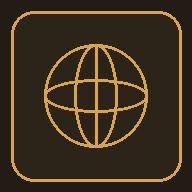
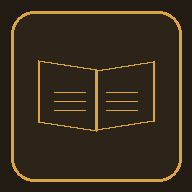
Add files via upload

Changed region(s): [[0.1875, 0.2188, 0.8125, 0.7812]]

diff --git a/index.html b/index.html
@@ -21,6 +21,7 @@
     --gold:#d9a441; --gold-dim:#a9803a;
     --nom:#c1453d; --gen:#d9a441; --dat:#5e8c6a; --acc:#4c7bb0; --abl:#a06fa3;
     --good:#5e8c6a; --bad:#c1453d; --radius:6px;
+    --lang-la:#c1453d; --lang-de:#4a7856; --lang-fr:#4c6fa5; --lang-el:#3f8f8a;
   }
   *{box-sizing:border-box;}
   html{scroll-behavior:smooth;}
@@ -43,6 +44,14 @@
   }
   nav.pillnav button:hover{border-color:var(--gold-dim);color:var(--ink);}
   nav.pillnav button.active{background:var(--gold);color:#221c15;border-color:var(--gold);}
+  #lang-nav button[data-id="la"].active{background:var(--lang-la);border-color:var(--lang-la);color:#fff;}
+  #lang-nav button[data-id="de"].active{background:var(--lang-de);border-color:var(--lang-de);color:#fff;}
+  #lang-nav button[data-id="fr"].active{background:var(--lang-fr);border-color:var(--lang-fr);color:#fff;}
+  #lang-nav button[data-id="el"].active{background:var(--lang-el);border-color:var(--lang-el);color:#fff;}
+  #lang-nav button[data-id="la"]:hover{border-color:var(--lang-la);}
+  #lang-nav button[data-id="de"]:hover{border-color:var(--lang-de);}
+  #lang-nav button[data-id="fr"]:hover{border-color:var(--lang-fr);}
+  #lang-nav button[data-id="el"]:hover{border-color:var(--lang-el);}
   nav.pillnav.sub button{font-size:.85rem;padding:7px 14px;}
   nav.pillnav.sub2 button{font-size:.8rem;padding:6px 12px;background:transparent;}
   nav.pillnav.sub2 button.active{background:var(--gold-dim);color:#221c15;}
@@ -150,7 +159,7 @@
 </style>
 </head>
 <body>
-<div class="version-badge">v1.33</div>
+<div class="version-badge">v1.35</div>
 <div class="wrap">
   <header>
     <h1>Naamvallen &amp; Werkwoorden</h1>
@@ -3914,8 +3923,13 @@ let currentView = 'leren';
 
 const LANGS = [ {id:'la', label:'Latijn'}, {id:'de', label:'Duits'}, {id:'fr', label:'Frans'}, {id:'el', label:'Grieks'} ];
 const TOPICS_NORMAL = [ {id:'nouns', label:'Zelfstandige naamwoorden'}, {id:'verbs', label:'Werkwoorden'}, {id:'vocab', label:'Vocabulaire'} ];
+const TOPICS_NO_NOUNS = [ {id:'verbs', label:'Werkwoorden'}, {id:'vocab', label:'Vocabulaire'} ];
 const TOPICS_GREEK = [ {id:'alfabet', label:'Alfabet'} ];
-function currentTopics(){ return currentLang==='el' ? TOPICS_GREEK : TOPICS_NORMAL; }
+function currentTopics(){
+  if(currentLang==='el') return TOPICS_GREEK;
+  if(currentLang==='fr') return TOPICS_NO_NOUNS; // Frans heeft geen naamvaloefening voor zelfstandige naamwoorden
+  return TOPICS_NORMAL;
+}
 
 /* ================= NAV RENDER ================= */
 const langNav = document.getElementById('lang-nav');
